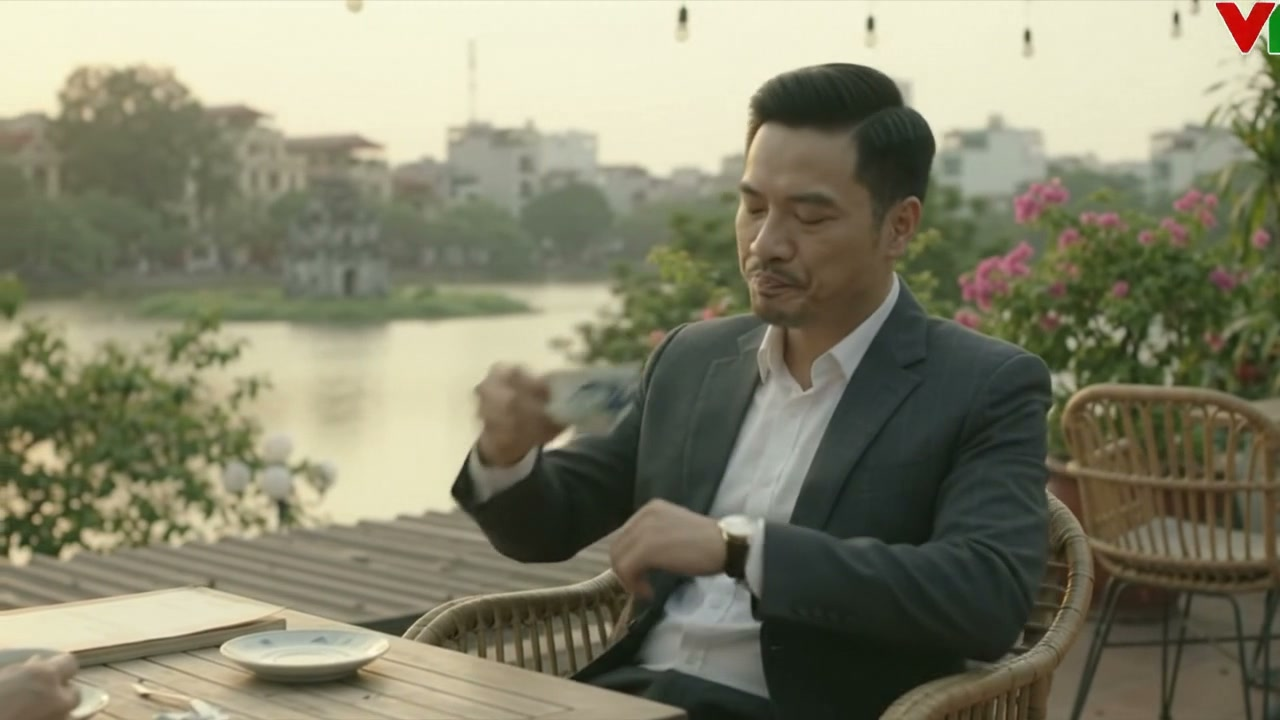
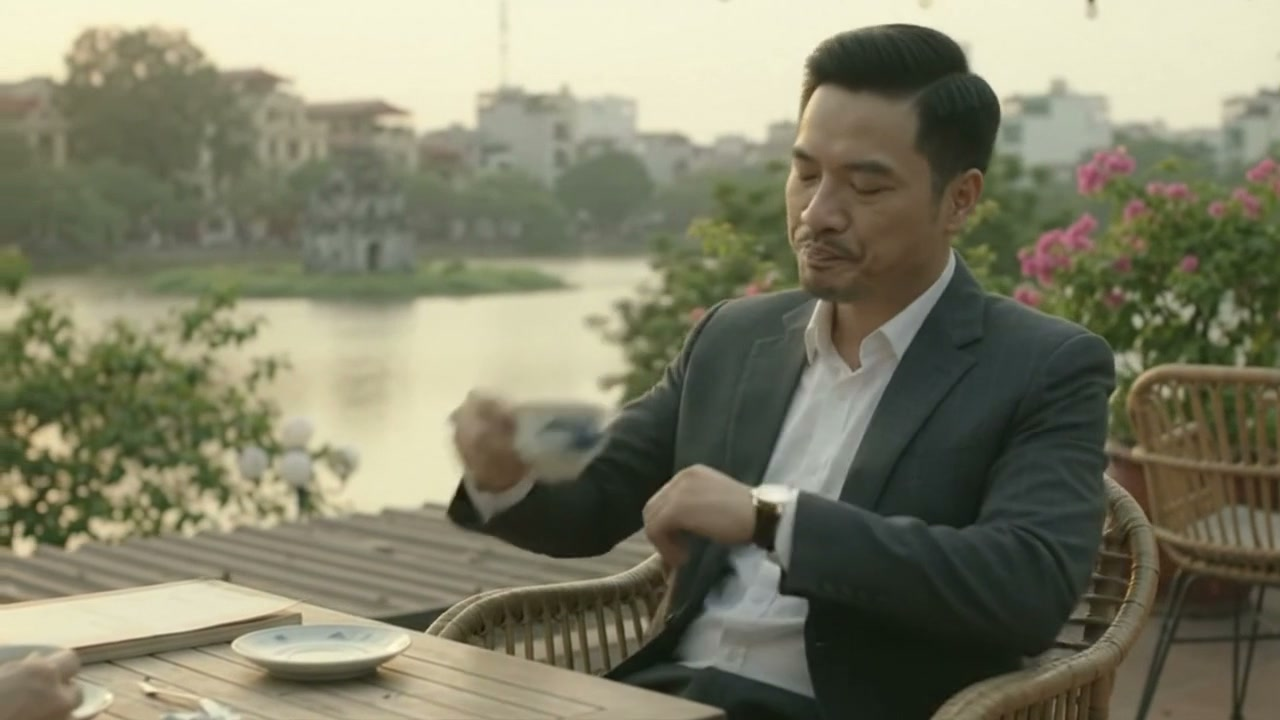
update

diff --git a/cai-ket-cho-tieu-tam/canh-06/clip-2.md b/cai-ket-cho-tieu-tam/canh-06/clip-2.md
@@ -20,40 +20,40 @@ Nobody else appears in the shot.
 - Shot 2, 5–8s: 85mm close-up of the wife lifting her eyes from the page, slow push-in.
 - Shot 3, 8–10s: 40mm medium two-shot across the table, locked off.
 - Shot 4, 10–13s: 85mm close-up of the husband, locked off.
-- Shot 5, 13–15s: 40mm medium two-shot across the table, slow push-in toward the pen between them.
+- Shot 5, 13–15s: 40mm medium two-shot across the table, slow push-in toward the papers between them.
 - Continuity: continues the same moment, place and lighting as the previous shot; Shot 1 keeps the previous framing axis, no jump.
 - Every cut keeps the same lighting, wardrobe, props and screen direction; whoever is speaking has the face clearly on screen in that shot.
 - Eyelines: the camera stays on one side of the line between the characters (180-degree rule) so their eyes meet across the cuts.
 
 [TIMELINE — second by second]
 Emotion shows through physical cues (breathing, eyes, jaw, hands, posture); one clear action per second; clothing stays fully worn.
-- 0–1s (Shot 1): @Tung leans over the table and is already speaking fast and impatiently, poking the pen at a corner of the page.
-- 1–2s (Shot 1): @Tung keeps talking over her, tapping the pen on the stack, while @Thu turns the pages slowly with her mouth closed.
-- 2–3s (Shot 1): @Tung keeps speaking fast, flapping his free hand at the papers.
-- 3–4s (Shot 1): @Tung keeps talking, pointing the pen at the place to sign.
-- 4–5s (Shot 1): @Tung finishes, closes his mouth and holds out the pen.
+- 0–1s (Shot 1): @Tung sits down across the table with a fixed smile and is already speaking sweetly, lifting the teapot.
+- 1–2s (Shot 1): @Tung keeps talking, pouring tea into her cup, while @Thu turns the pages slowly with her mouth closed.
+- 2–3s (Shot 1): @Tung keeps speaking, sliding the cup toward her.
+- 3–4s (Shot 1): @Tung keeps talking, his fingers drumming lightly on the table.
+- 4–5s (Shot 1): @Tung finishes, closes his mouth and sips his own tea.
 - 5–6s (CUT to Shot 2): @Thu stops on one page, lifts her eyes to his face and starts asking slowly.
 - 6–7s (Shot 2): @Thu keeps asking in a level voice, her eyes never leaving him.
 - 7–8s (Shot 2): @Thu keeps speaking quietly, each word placed with care.
 - 8–9s (CUT to Shot 3): @Thu keeps talking, one finger laid on the page with no readable writing.
 - 9–10s (Shot 3): @Thu finishes the question and closes her mouth, while @Tung's jaw tightens.
-- 10–11s (CUT to Shot 4): @Tung answers back fast, waving the pen.
+- 10–11s (CUT to Shot 4): @Tung sets his cup down too hard and answers fast, flustered.
 - 11–12s (Shot 4): @Tung keeps talking fast, his face reddening.
-- 12–13s (Shot 4): @Tung keeps talking, tapping the stack of papers impatiently.
+- 12–13s (Shot 4): @Tung keeps talking, waving one hand as if it is nothing.
 - 13–14s (CUT to Shot 5): @Tung finishes and closes his mouth, a bead of sweat on his temple.
-- 14–15s (Shot 5): @Thu holds his gaze in silence while the pen hangs in the air between them, both mouths closed. The sequence settles on this as its final frame.
+- 14–15s (Shot 5): @Thu holds his gaze in silence while the papers lie on the table between them, both mouths closed. The sequence settles on this as its final frame.
 
 [AUDIO]
 - Dialogue in Vietnamese with exact lip-sync, three spoken turns in this order, each said exactly once (no subtitles):
-- Turn 1, 0.4–4.4s, spoken on camera by @Tung (man of 37, deep heavy baritone, clipped and self-important, speaking quickly in short lively phrases, every word still clear, impatient, talking over her): "Đọc làm gì cho mất thời gian! Toàn chữ chuyên môn thôi, em cứ ký vào đây là xong!"
-- Turn 2, 4.9–9.4s, spoken on camera by @Thu (woman of 34, soft low mezzo, warm and very steady, never raises her voice, speaking slowly and softly, unhurried, with a short natural pause between phrases, level and piercing): "Em đọc rồi. Sao trang đầu lại là hợp đồng tặng cho nhà đất hả anh?"
-- Turn 3, 9.9–12.9s, spoken on camera by @Tung (man of 37, deep heavy baritone, clipped and self-important, speaking quickly in short lively phrases, every word still clear, caught out, blustering): "Thủ tục nó bắt thế! Em hỏi lắm thế làm gì! Ký nhanh lên!"
-- Pacing: @Tung speaks quickly, then @Thu answers slowly and calmly, then @Tung answers quickly; the change of speed is clearly audible.
+- Turn 1, 0.4–4.7s, spoken on camera by @Tung (man of 37, deep heavy baritone, clipped and self-important, speaking at a natural, even conversational pace, sugary, hovering): "Mình cứ đọc từ từ thôi, anh ngồi đây pha thêm ấm trà mới cho mình nhé."
+- Turn 2, 5.2–10.0s, spoken on camera by @Thu (woman of 34, soft low mezzo, warm and very steady, never raises her voice, speaking slowly and softly, unhurried, with a short natural pause between phrases, level and piercing): "Em đọc rồi. Giấy công trình gì mà trang đầu lại ghi tên người khác hả anh?"
+- Turn 3, 10.5–13.7s, spoken on camera by @Tung (man of 37, deep heavy baritone, clipped and self-important, speaking quickly in short lively phrases, every word still clear, caught out, flustered): "Chắc bên công ty in nhầm thôi mình ạ! Để mai anh hỏi lại cho."
+- Pacing: @Tung speaks at an even everyday pace, then @Thu answers slowly and calmly, then @Tung answers quickly; the change of speed is clearly audible.
 - Throughout, each speaker's face and lips stay clearly visible while speaking; only the person whose turn it is moves the lips while the other listens with the mouth closed; after the last word both close their mouths and say nothing more — no repeated words, no echo. No narrator and no other voices.
 - Voices: every character speaks standard Hà Nội Northern Vietnamese (never Southern or Central accents), says each word once and clearly, and sounds clearly different from the other speaker in pitch, age and texture.
-- All speech is over by 12.9s. From then until 15.0s nobody says a single word: the last beat plays as a silent reaction over ambience and sound effects, and no line or part of a line is ever said again to fill the time.
+- All speech is over by 13.7s. From then until 15.0s nobody says a single word: the last beat plays as a silent reaction over ambience and sound effects, and no line or part of a line is ever said again to fill the time.
 - Speak only the Vietnamese words inside the double quotes, once, with natural Northern Vietnamese tones; never read these directions, names or tags aloud.
-- SFX: pages turning, a pen clicking, the clock ticking loud in the silence, a moped passing in the alley. Ambience continues to 15.0s. No music.
+- SFX: pages turning, tea pouring into a cup, the clock ticking loud in the silence, a moped passing in the alley. Ambience continues to 15.0s. No music.
 
 [AVOID]
 On-screen text of any kind (subtitles, captions, titles, credits, watermarks, logos, TV graphics, digital clock readouts), readable writing on signs, labels, name tags, paper or phone screens, blurry faces, distorted hands, background music, letterbox bars, cuts at any moment other than the planned shot changes, jump cuts, a change of location, extra people, extra or fused fingers, face or costume changes, slurred speech, repeated, stuttered or echoed words, the line spoken twice, mumbled or swallowed words, an off-screen narrator or voice-over, Southern or Central Vietnamese accents.

diff --git a/cai-ket-cho-tieu-tam/canh-04/clip-3.md b/cai-ket-cho-tieu-tam/canh-04/clip-3.md
@@ -18,7 +18,7 @@ Nobody else appears in the shot.
 [SHOT LIST — 5 shots, hard cuts only at the marked seconds]
 - Shot 1, 0–3s: 50mm medium two-shot low across the sofa, holding the previous framing.
 - Shot 2, 3–6s: 85mm close-up of the man at the marble kitchen island, slow lateral track.
-- Shot 3, 6–11s: 50mm medium shot of the young woman leaning on the marble, locked off.
+- Shot 3, 6–11s: 50mm medium shot of the young woman standing beside the marble island, locked off.
 - Shot 4, 11–13s: 85mm close-up of the man across the island, locked off.
 - Shot 5, 13–15s: 35mm wide shot across the marble island toward the city windows, slow drift.
 - Continuity: continues the same moment, place and lighting as the previous shot; Shot 1 keeps the previous framing axis, no jump.
@@ -30,30 +30,30 @@ Emotion shows through physical cues (breathing, eyes, jaw, hands, posture); one 
 - 0–1s (Shot 1): @Khai rises from the arm of the sofa and is already speaking in a cool businesslike voice, while @Vy watches with her mouth closed.
 - 1–2s (Shot 1): @Khai keeps talking as he walks to the marble kitchen island, @Vy following with her champagne glass.
 - 2–3s (Shot 1): @Khai keeps speaking evenly and sets his glass down on the marble.
-- 3–4s (CUT to Shot 2): @Khai flips open a black leather document folder and keeps talking, cool and flat.
-- 4–5s (Shot 2): @Khai keeps speaking, laying sheets of paper with no readable writing on the marble.
-- 5–6s (Shot 2): @Khai finishes and closes his mouth, squaring the papers on the marble.
-- 6–7s (CUT to Shot 3): @Vy leans her elbows on the marble and answers fast and giddy, her eyes shining.
-- 7–8s (Shot 3): @Vy keeps talking excitedly, fluttering her fingers like a bird flying off.
+- 3–4s (CUT to Shot 2): @Khai picks up the champagne bottle and keeps talking, cool and flat.
+- 4–5s (Shot 2): @Khai keeps speaking, topping up his own glass.
+- 5–6s (Shot 2): @Khai finishes and closes his mouth, setting the bottle down on the marble.
+- 6–7s (CUT to Shot 3): @Vy stands upright beside the marble island and answers fast and giddy, her eyes shining.
+- 7–8s (Shot 3): @Vy keeps talking excitedly, pressing a hand to her heart like a shy bride.
 - 8–9s (Shot 3): @Vy keeps speaking fast, swirling her champagne glass.
-- 9–10s (Shot 3): @Vy keeps talking with a sly giggle, tapping the papers.
+- 9–10s (Shot 3): @Vy keeps talking with a sly giggle, tapping the marble with one fingernail.
 - 10–11s (Shot 3): @Vy finishes, closes her mouth and takes a slow sip from her glass.
-- 11–12s (CUT to Shot 4): @Khai taps one sheet with a fingertip, the gold band glinting on his hand, and adds a dry warning in a low voice.
+- 11–12s (CUT to Shot 4): @Khai taps the marble with a fingertip, the gold band glinting on his hand, and adds a dry warning in a low voice.
 - 12–13s (Shot 4): @Khai keeps speaking quietly, holding @Vy's gaze, one eyebrow raised.
-- 13–14s (CUT to Shot 5): @Khai finishes and closes his mouth, then shuts the black leather folder with a soft snap.
+- 13–14s (CUT to Shot 5): @Khai finishes and closes his mouth, then sets his glass down with a soft clink.
 - 14–15s (Shot 5): @Khai refills two glasses from the champagne bottle while @Vy rolls her eyes with a grin, both silent. The sequence settles on this as its final frame.
 
 [AUDIO]
 - Dialogue in Vietnamese with exact lip-sync, three spoken turns in this order, each said exactly once (no subtitles):
-- Turn 1, 0.4–5.7s, spoken on camera by @Khai (man of 30, smooth lazy tenor, slightly nasal, sly and drawling, speaking at a natural, even conversational pace, cool and businesslike): "Ông Tùng mê em lắm rồi. Trước đám hỏi, ông ấy phải lo xong sính lễ với căn nhà ba tầng."
-- Turn 2, 6.2–10.2s, spoken on camera by @Vy (young woman of 24, high honeyed soprano with a coy lilt that can snap cold and sharp, speaking quickly in short lively phrases, every word still clear, giddy, eyes shining): "Xong đám hỏi là mình đi xa luôn, như hai lần trước. Ông ấy chẳng kịp hiểu gì đâu!"
-- Turn 3, 10.7–13.5s, spoken on camera by @Khai (man of 30, smooth lazy tenor, slightly nasal, sly and drawling, speaking at a natural, even conversational pace, dry, a quiet warning): "Nhớ đấy, sính lễ phải xong trước, giấy tờ tính sau."
+- Turn 1, 0.4–5.7s, spoken on camera by @Khai (man of 30, smooth lazy tenor, slightly nasal, sly and drawling, speaking at a natural, even conversational pace, cool and businesslike): "Ông Tùng mê em lắm rồi. Đám hỏi này ông ấy định làm thật to, mời cả hội trường khách sạn."
+- Turn 2, 6.2–10.8s, spoken on camera by @Vy (young woman of 24, high honeyed soprano with a coy lilt that can snap cold and sharp, speaking quickly in short lively phrases, every word still clear, giddy, eyes shining): "Thế thì em phải làm cô dâu thật xinh, thật ngoan cho ông ấy vui. Ông ấy chẳng nghi ngờ gì đâu!"
+- Turn 3, 11.3–13.6s, spoken on camera by @Khai (man of 30, smooth lazy tenor, slightly nasal, sly and drawling, speaking at a natural, even conversational pace, dry, a quiet warning): "Nhớ đấy, cứ ngọt ngào, đừng để lộ gì."
 - Pacing: @Khai speaks at an even everyday pace, then @Vy answers quickly, then @Khai answers at an even everyday pace; the change of speed is clearly audible.
 - Throughout, each speaker's face and lips stay clearly visible while speaking; only the person whose turn it is moves the lips while the other listens with the mouth closed; after the last word both close their mouths and say nothing more — no repeated words, no echo. No narrator and no other voices.
 - Voices: every character speaks standard Hà Nội Northern Vietnamese (never Southern or Central accents), says each word once and clearly, and sounds clearly different from the other speaker in pitch, age and texture.
-- All speech is over by 13.5s. From then until 15.0s nobody says a single word: the last beat plays as a silent reaction over ambience and sound effects, and no line or part of a line is ever said again to fill the time.
+- All speech is over by 13.6s. From then until 15.0s nobody says a single word: the last beat plays as a silent reaction over ambience and sound effects, and no line or part of a line is ever said again to fill the time.
 - Speak only the Vietnamese words inside the double quotes, once, with natural Northern Vietnamese tones; never read these directions, names or tags aloud.
-- SFX: a leather folder flipping open, paper sliding on marble, a glass set down on stone, the low hum of a fridge. Ambience continues to 15.0s. No music.
+- SFX: champagne pouring, a glass set down on stone, a fingernail tapping on marble, the low hum of a fridge. Ambience continues to 15.0s. No music.
 
 [AVOID]
 On-screen text of any kind (subtitles, captions, titles, credits, watermarks, logos, TV graphics, digital clock readouts), readable writing on signs, labels, name tags, paper or phone screens, blurry faces, distorted hands, background music, letterbox bars, cuts at any moment other than the planned shot changes, jump cuts, a change of location, extra people, extra or fused fingers, face or costume changes, slurred speech, repeated, stuttered or echoed words, the line spoken twice, mumbled or swallowed words, an off-screen narrator or voice-over, Southern or Central Vietnamese accents.

diff --git a/cai-ket-cho-tieu-tam/canh-06/clip-1.md b/cai-ket-cho-tieu-tam/canh-06/clip-1.md
@@ -44,13 +44,13 @@ Emotion shows through physical cues (breathing, eyes, jaw, hands, posture); one 
 
 [AUDIO]
 - Dialogue in Vietnamese with exact lip-sync, three spoken turns in this order, each said exactly once (no subtitles):
-- Turn 1, 0.4–5.2s, spoken on camera by @Tung (man of 37, deep heavy baritone, clipped and self-important, speaking at a natural, even conversational pace, sugary, a little too sweet): "Mình ơi, ký giúp anh mấy tờ hồ sơ vay nhé, công trình mới đang cần vốn gấp lắm."
-- Turn 2, 5.7–10.2s, spoken on camera by @Thu (woman of 34, soft low mezzo, warm and very steady, never raises her voice, speaking slowly and softly, unhurried, with a short natural pause between phrases, unhurried and polite): "Anh cứ để đấy. Giấy tờ thì em phải đọc đã, ký rồi khó rút lại."
-- Turn 3, 10.7–13.7s, spoken on camera by @Tung (man of 37, deep heavy baritone, clipped and self-important, speaking quickly in short lively phrases, every word still clear, overeager, nudging the basket): "Anh mua cả giỏ hoa quả cho mình đây này, toàn hàng nhập đấy!"
+- Turn 1, 0.4–4.7s, spoken on camera by @Tung (man of 37, deep heavy baritone, clipped and self-important, speaking at a natural, even conversational pace, sugary, a little too sweet): "Mình ơi, anh có mấy tờ giấy tờ công trình, mình xem rồi ký giúp anh nhé."
+- Turn 2, 5.2–9.7s, spoken on camera by @Thu (woman of 34, soft low mezzo, warm and very steady, never raises her voice, speaking slowly and softly, unhurried, with a short natural pause between phrases, unhurried and polite): "Anh cứ để đấy. Giấy tờ thì em phải đọc đã, ký rồi khó rút lại."
+- Turn 3, 10.2–13.2s, spoken on camera by @Tung (man of 37, deep heavy baritone, clipped and self-important, speaking quickly in short lively phrases, every word still clear, overeager, nudging the basket): "Anh mua cả giỏ hoa quả cho mình đây này, toàn hàng nhập đấy!"
 - Pacing: @Tung speaks at an even everyday pace, then @Thu answers slowly and calmly, then @Tung answers quickly; the change of speed is clearly audible.
 - Throughout, each speaker's face and lips stay clearly visible while speaking; only the person whose turn it is moves the lips while the other listens with the mouth closed; after the last word both close their mouths and say nothing more — no repeated words, no echo. No narrator and no other voices.
 - Voices: every character speaks standard Hà Nội Northern Vietnamese (never Southern or Central accents), says each word once and clearly, and sounds clearly different from the other speaker in pitch, age and texture.
-- All speech is over by 13.7s. From then until 15.0s nobody says a single word: the last beat plays as a silent reaction over ambience and sound effects, and no line or part of a line is ever said again to fill the time.
+- All speech is over by 13.2s. From then until 15.0s nobody says a single word: the last beat plays as a silent reaction over ambience and sound effects, and no line or part of a line is ever said again to fill the time.
 - Speak only the Vietnamese words inside the double quotes, once, with natural Northern Vietnamese tones; never read these directions, names or tags aloud.
 - SFX: cellophane crinkling, paper sliding across wood, a pen rolling, fingers drumming on a table. Ambience continues to 15.0s. No music.
 

diff --git a/cai-ket-cho-tieu-tam/canh-12/clip-1.md b/cai-ket-cho-tieu-tam/canh-12/clip-1.md
@@ -43,13 +43,13 @@ Emotion shows through physical cues (breathing, eyes, jaw, hands, posture); one 
 
 [AUDIO]
 - Dialogue in Vietnamese with exact lip-sync, three spoken turns in this order, each said exactly once (no subtitles):
-- Turn 1, 0.4–5.9s, spoken on camera by @Vy (young woman of 24, high honeyed soprano with a coy lilt that can snap cold and sharp, speaking at a natural, even conversational pace, sweet and wheedling): "Anh ơi, bố mẹ em ở quê khó tính lắm. Ngoài căn nhà, phải thêm năm tỷ sính lễ thì mới gả."
-- Turn 2, 6.4–11.2s, spoken on camera by @Tung (man of 37, deep heavy baritone, clipped and self-important, speaking at a natural, even conversational pace, hesitant): "Năm tỷ thì anh xoay được. Còn căn nhà phải đợi bà ấy ký đã, em cứ từ từ."
-- Turn 3, 11.7–13.8s, spoken on camera by @Vy (young woman of 24, high honeyed soprano with a coy lilt that can snap cold and sharp, speaking quickly in short lively phrases, every word still clear, pouting): "Từ từ đến bao giờ? Thế anh giục nhanh lên."
+- Turn 1, 0.4–5.9s, spoken on camera by @Vy (young woman of 24, high honeyed soprano with a coy lilt that can snap cold and sharp, speaking at a natural, even conversational pace, sweet and wheedling): "Anh ơi, bố mẹ em ở quê khó tính lắm. Sính lễ phải thật to, có cả căn nhà thì mới gả."
+- Turn 2, 6.4–11.2s, spoken on camera by @Tung (man of 37, deep heavy baritone, clipped and self-important, speaking at a natural, even conversational pace, hesitant): "Sính lễ thì anh lo được. Còn nhà thì phải đợi bà ấy đồng ý, em cứ từ từ."
+- Turn 3, 11.7–14.0s, spoken on camera by @Vy (young woman of 24, high honeyed soprano with a coy lilt that can snap cold and sharp, speaking quickly in short lively phrases, every word still clear, pouting): "Từ từ đến bao giờ? Em sốt ruột lắm rồi đấy."
 - Pacing: @Vy speaks at an even everyday pace, then @Tung answers at an even everyday pace, then @Vy answers quickly; the change of speed is clearly audible.
 - Throughout, each speaker's face and lips stay clearly visible while speaking; only the person whose turn it is moves the lips while the other listens with the mouth closed; after the last word both close their mouths and say nothing more — no repeated words, no echo. No narrator and no other voices.
 - Voices: every character speaks standard Hà Nội Northern Vietnamese (never Southern or Central accents), says each word once and clearly, and sounds clearly different from the other speaker in pitch, age and texture.
-- All speech is over by 13.8s. From then until 15.0s nobody says a single word: the last beat plays as a silent reaction over ambience and sound effects, and no line or part of a line is ever said again to fill the time.
+- All speech is over by 14.0s. From then until 15.0s nobody says a single word: the last beat plays as a silent reaction over ambience and sound effects, and no line or part of a line is ever said again to fill the time.
 - Speak only the Vietnamese words inside the double quotes, once, with natural Northern Vietnamese tones; never read these directions, names or tags aloud.
 - SFX: the hush of air conditioning, a leather chair creaking, distant city traffic far below, a pen clicking. Ambience continues to 15.0s. No music.
 

diff --git a/cai-ket-cho-tieu-tam/canh-15/clip-1.md b/cai-ket-cho-tieu-tam/canh-15/clip-1.md
@@ -41,7 +41,7 @@ Emotion shows through physical cues (breathing, eyes, jaw, hands, posture); one 
 - 14–15s (Shot 4): @Thu lifts her eyes toward the red wedding áo dài just beyond the frame, a steady gaze, silent. The sequence settles on this as its final frame.
 
 [AUDIO]
-- Dialogue 0.4–12.4s, spoken on camera by @Thu (woman of 34, soft low mezzo, warm and very steady, never raises her voice, speaking at a natural, even conversational pace, steady and low, on the phone), in Vietnamese with exact lip-sync, said exactly once: "Vâng, ảnh cưới với địa chỉ quê họ em gửi anh rồi. Đây là lần thứ ba họ làm thế, lần nào cũng một bài. Tối mai, ở sảnh tiệc khách sạn. Vâng, em sẽ giữ họ ở lại đến khi các anh tới. Anh cứ yên tâm." (no subtitles)
+- Dialogue 0.4–12.4s, spoken on camera by @Thu (woman of 34, soft low mezzo, warm and very steady, never raises her voice, speaking at a natural, even conversational pace, steady and low, on the phone), in Vietnamese with exact lip-sync, said exactly once: "Vâng, ảnh cưới của họ em gửi anh đủ rồi. Đây là lần thứ ba họ làm thế, lần nào cũng một bài. Tối mai, ở sảnh tiệc khách sạn. Vâng, em sẽ ở đó từ sớm, chờ các anh tới. Anh cứ yên tâm, em lo được." (no subtitles)
 - @Thu starts talking within the first second; whenever @Thu speaks, the face and lips are clearly visible in that shot; after the last word @Thu closes the mouth and says nothing more — no repeated words, no echo. No narrator and no other voices.
 - Voices: every character speaks standard Hà Nội Northern Vietnamese (never Southern or Central accents), says each word once and clearly, and sounds clearly different from the other speaker in pitch, age and texture.
 - All speech is over by 12.4s. From then until 15.0s nobody says a single word: the last beat plays as a silent reaction over ambience and sound effects, and no line or part of a line is ever said again to fill the time.
